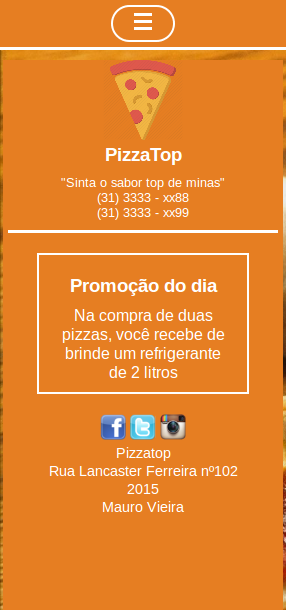
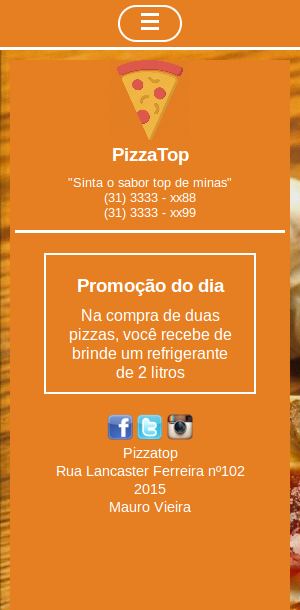
Javascript da sessão Portifolio terminado

diff --git a/js/main.js b/js/main.js
@@ -109,6 +109,47 @@ window.onload = function(){
         
         
         alert(slide.slideAtual);
+   
         
-    
+        
+   /*================================================
+    *   Mokup selector
+    * ===============================================
+    */
+        var mokupNote = document.querySelector(".mokup-note img");
+        var mokupCel = document.querySelector(".mokup-cel img");
+        var containerLayout = document.querySelector("#container-layouts");
+        var lastImg =  containerLayout.firstElementChild.firstElementChild.getAttribute("alt"); //retorna captura o titulo da primeira imagem do container - layout
+        containerLayout.addEventListener("click",function(e){
+                var layoutAtual = e.target.parentElement;
+                var img = layoutAtual.firstElementChild.getAttribute("alt");
+                lastImg = img;
+                ultimoLayoutAtivo.srcMob = mokupCel.getAttribute("src");
+                mokupNote.setAttribute("src","img/"+img+".png");
+                mokupCel.setAttribute("src","img/"+img+"-mobile.png");
+            //alert(layoutAtual.firstElementChild.getAttribute("src"));
+                
+                
+        },false);
+        
+        containerLayout.addEventListener("mouseover",function(e){
+                var layoutMouseHover = e.target.parentElement;
+                var img = layoutMouseHover.firstElementChild.getAttribute("alt");
+                mokupNote.setAttribute("src","img/"+img+".png");
+                mokupCel.setAttribute("src","img/"+img+"-mobile.png");
+            //alert(layoutAtual.firstElementChild.getAttribute("src"));
+                
+                
+        },false);
+        
+    containerLayout.addEventListener("mouseout",function(e){
+                
+                
+                mokupNote.setAttribute("src","img/"+lastImg+".png");
+                mokupCel.setAttribute("src","img/"+lastImg+"-mobile.png");
+            //alert(layoutAtual.firstElementChild.getAttribute("src"));
+                
+                
+        },false);
+        
     }   

diff --git a/index.html b/index.html
@@ -169,7 +169,7 @@
                 <section id="portifolio-mokups">
                     <span id="container-mokups">
                         <figure class="mokup-note">
-                            <img src="img/pizzatop.png">
+                            <img src="img/pizzatop.png" title="pizzatop">
                         </figure>
                         <figure class="mokup-cel">
                             <img src="img/pizzatop-mobile.png">
@@ -181,15 +181,15 @@
                 <section id="portifolio-layouts">
                     <span id="container-layouts">
                         <figure class="painel-img">
-                            <img src="img/pizzatop.png">
+                            <img src="img/pizzatop.png" alt="pizzatop">
                             <figcaption>
                                 Pizzatop
                             </figcaption>
                         </figure>
-                        <figure class="painel-img">
-                            <img src="img/photogrid.png">
+                        <figure class="painel-img ">
+                            <img src="img/photogrid.png" alt="photogrid">
                             <figcaption>
-                                Pizzatop
+                                Photogrid
                             </figcaption>
                         </figure>
                         

diff --git a/css/style.css b/css/style.css
@@ -718,7 +718,7 @@ section#sobremim{
             }
             
             .mokup-cel img{
-                border-radius:10px;
+                border-radius:4px;
                 width:100%;
                 height:100%;
             }
